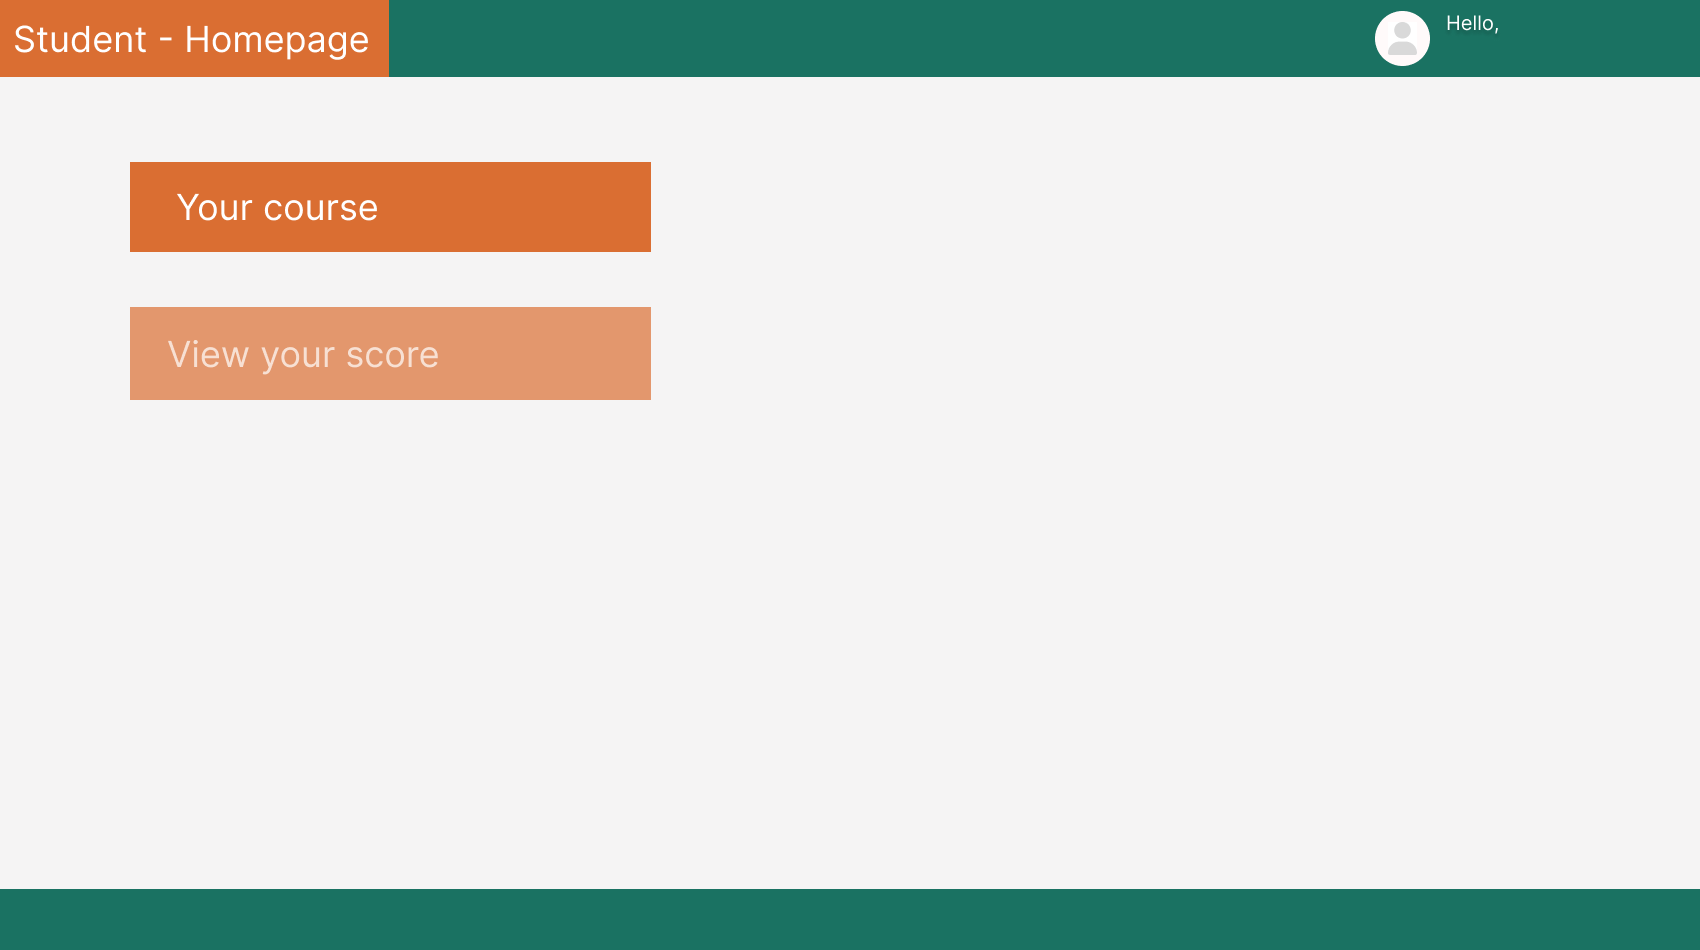
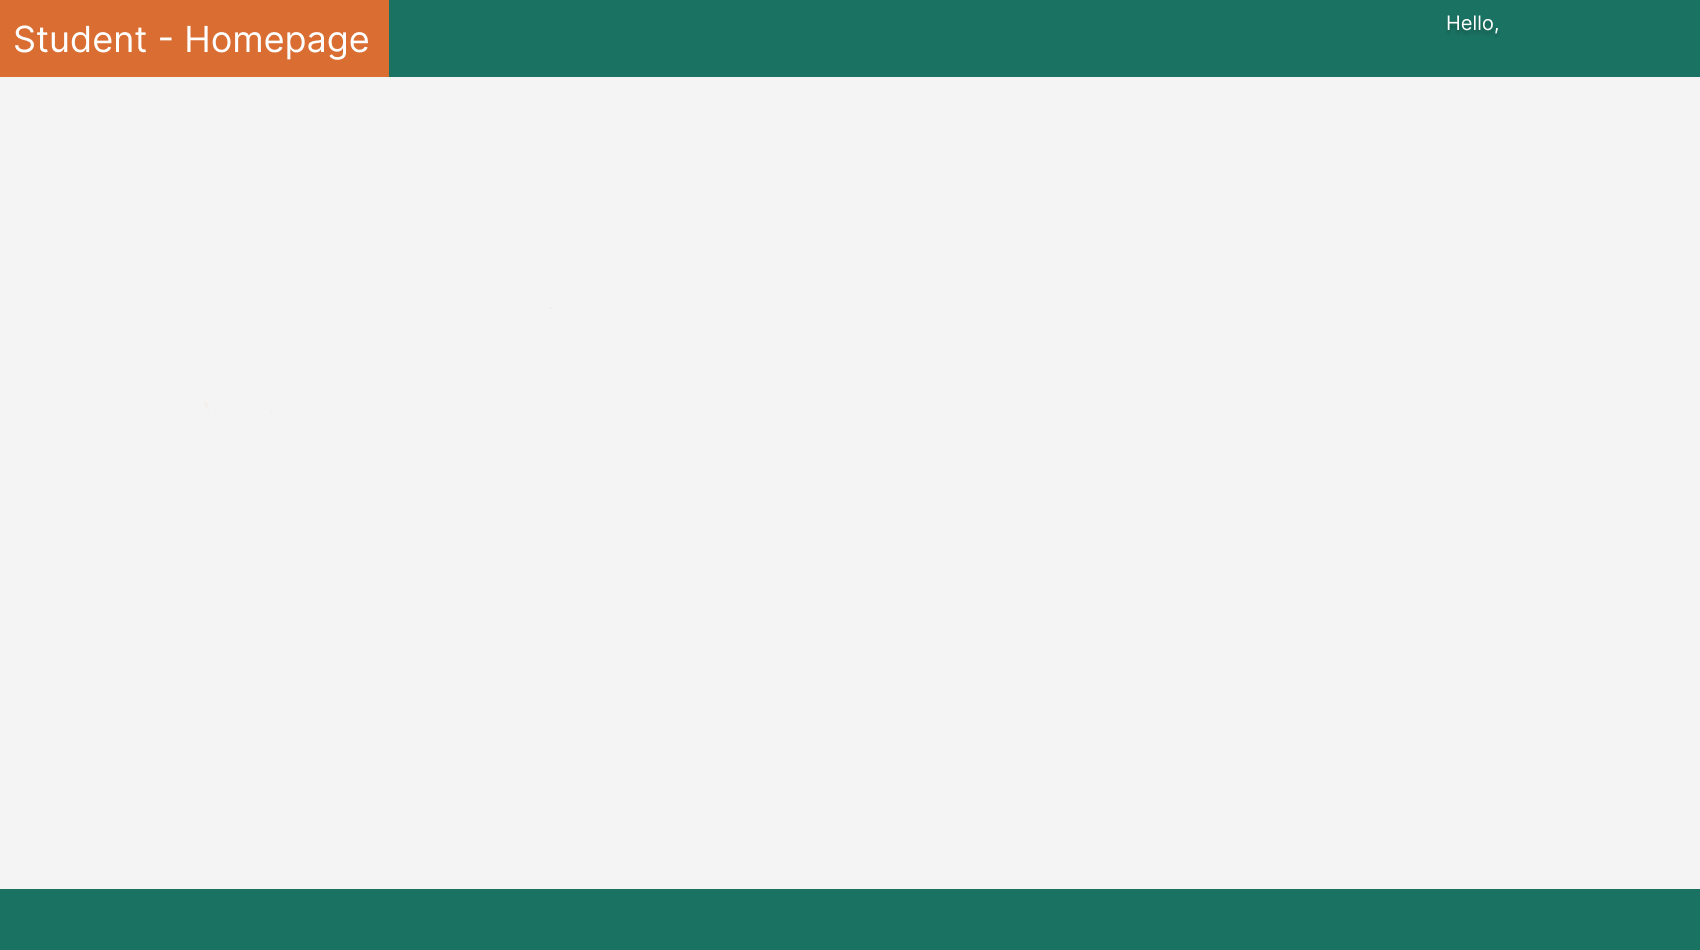
feat: implement 2 more windows

Changed region(s): [[0.0624, 0.3053, 0.4053, 0.4274], [0.0624, 0.1526, 0.4053, 0.2747], [0.8106, 0.0, 0.8418, 0.0916]]

diff --git a/SFML/Activity.cpp b/SFML/Activity.cpp
@@ -2,6 +2,7 @@
 // Global variables
 User user;
 
+// Finished
 void Activity::initLoginWindow(sf::RenderWindow &window)
 {    
     // Generate the main window
@@ -42,9 +43,10 @@ void Activity::initLoginWindow(sf::RenderWindow &window)
                     user.setPassword(username.getInput());
                     
                     user.setType("Student");
-                    type = 1;
+
                     
                     std::cout << checkLoginType(user.getUsername(), user.getPassword()) << std::endl;
+                    type = 1; // initHomePageStudentWindow
                     return; 
                 }
             }
@@ -66,6 +68,7 @@ void Activity::initLoginWindow(sf::RenderWindow &window)
     }
 }
 
+// Not yet finished
 void Activity::initHomePageStudentWindow(sf::RenderWindow &window)
 {
     
@@ -74,7 +77,9 @@ void Activity::initHomePageStudentWindow(sf::RenderWindow &window)
 
     Text name(1505, 10, user.getUsername(), font, sf::Color(255, 255, 255), 20);
     Text datetime(1446, 40, EF::getDateTime(), font, sf::Color(255, 255, 255), 20);
-   
+    Button yourCourse(130, 162, 521, 90, "Your course", font, sf::Color(218, 110, 50));
+    Button viewScore(130, 307, 521, 93, "View your score", font, sf::Color(218, 110, 50));
+    Circle userIcon(1403, 35, 28, "Assets/userIcon.png", sf::Color(255, 250, 250));
 
     if (!texture.loadFromFile("Assets/HomePageStudent.png"))
         std::cout << "Could not load the backrground image" << std::endl;
@@ -90,6 +95,16 @@ void Activity::initHomePageStudentWindow(sf::RenderWindow &window)
         while (window.pollEvent(event)) {
             if (event.type == sf::Event::Closed)
                 window.close();  // Close 
+            else if (event.type == sf::Event::MouseButtonPressed) {
+                sf::Vector2i mousePos = sf::Mouse::getPosition(window);
+
+                if (userIcon.isClicked(mousePos)) {
+                    std::cout << "User has clicked the information icon" << std::endl;
+                    type = 2; // initInformationWindow
+                    return;
+                }
+                
+            }
         }
 
         window.clear(sf::Color::White);
@@ -97,23 +112,126 @@ void Activity::initHomePageStudentWindow(sf::RenderWindow &window)
 
         name.draw(window);
         datetime.draw(window);
+        yourCourse.draw(window);
+        viewScore.draw(window);
+        userIcon.draw(window);
+
         window.display();
     }
 
 }
 
-void Activity::initInformationWindow(sf::RenderWindow& window)
+// Not yet finished
+void Activity::initInformationStudentWindow(sf::RenderWindow& window)
 {
-    //sf::RenderWindow window(sf::VideoMode(x, y), "Course management system", sf::Style::Close | sf::Style::Titlebar);
+    sf::Texture texture;
+    sf::Font font;
 
-    //while (window.isOpen()) {
-    //    sf::Event event;
-    //    while (window.pollEvent(event)) {
-    //        if (event.type == sf::Event::Closed)
-    //            window.close();  // Close 
-    //    }
+    Text name(1505, 10, user.getUsername(), font, sf::Color(255, 255, 255), 20);
+    Text datetime(1446, 40, EF::getDateTime(), font, sf::Color(255, 255, 255), 20);
+    Circle userIcon(1403, 40, 28, "Assets/userIcon.png", sf::Color(255, 250, 250));
+    Button goBack(458, 794, 245, 66, "Go back", font, sf::Color(218, 110, 50));
+    Button changePassword(833, 794, 372, 66, "Change password", font, sf::Color(218, 110, 50));
 
-    //    window.clear(sf::Color::White);
-    //    window.display();
-    //}
+    Text  fullName(672, 163, "Full name: " + user.fullname, font, sf::Color::Black, 36);
+    Text  id(672, 213, "Id: " + user.id, font, sf::Color::Black, 36);
+    Text  course(672, 258, "Course: " + user.courseName, font, sf::Color::Black, 36);
+    Text  classes(672, 300, "Class: " + user.courseName, font, sf::Color::Black, 36);
+
+
+    if (!texture.loadFromFile("Assets/InformationStudent.png"))
+        std::cout << "Could not load the backrground image" << std::endl;
+    if (!font.loadFromFile("TextFont/arial.ttf"))
+        std::cout << "Could not load the font" << std::endl;
+
+    std::cout << "Generate Student Information sucess" << std::endl;
+    sf::Sprite background(texture);
+
+
+    while (window.isOpen()) {
+        sf::Event event;
+        while (window.pollEvent(event)) {
+            if (event.type == sf::Event::Closed)
+                window.close();  // Close 
+            else if (event.type == sf::Event::MouseButtonPressed) {
+                sf::Vector2i mousePos = sf::Mouse::getPosition(window);
+
+                if (goBack.isClicked(mousePos)) {
+                    std::cout << "User has clicked the go back button" << std::endl;
+                    type = 1; // go back to initHomePageStudentWindow
+                    return;
+                }
+
+                if (changePassword.isClicked(mousePos)) {
+                    std::cout << "User has clicked the change password button" << std::endl;
+                    type = 3; // changePasswordStudent
+                    return;
+                }
+            }
+        }
+
+        window.clear(sf::Color::White);
+        window.draw(background);
+
+        name.draw(window);
+        datetime.draw(window);
+        userIcon.draw(window);
+        fullName.draw(window);
+        id.draw(window);
+        course.draw(window);
+        classes.draw(window);
+        goBack.draw(window);
+        changePassword.draw(window);
+
+        window.display();
+    }
+}
+
+// Not yet finished
+void Activity::changePasswordStudentWindow(sf::RenderWindow& window)
+{
+    sf::Texture texture;
+    sf::Font font;
+
+    Text name(1505, 10, user.fullname, font, sf::Color(255, 255, 255), 20);
+    Text datetime(1446, 40, EF::getDateTime(), font, sf::Color(255, 255, 255), 20);
+    Circle userIcon(1403, 40, 28, "Assets/userIcon.png", sf::Color(255, 250, 250));
+    Button goBack(458, 794, 245, 66, "Go back", font, sf::Color(218, 110, 50));
+
+    if (!texture.loadFromFile("Assets/changePasswordStudent.png"))
+        std::cout << "Could not load the backrground image" << std::endl;
+    if (!font.loadFromFile("TextFont/arial.ttf"))
+        std::cout << "Could not load the font" << std::endl;
+
+    std::cout << "Generate change password student sucess" << std::endl;
+    sf::Sprite background(texture);
+
+    while (window.isOpen()) {
+        sf::Event event;
+        while (window.pollEvent(event)) {
+            if (event.type == sf::Event::Closed)
+                window.close();  // Close 
+            else if (event.type == sf::Event::MouseButtonPressed) {
+                sf::Vector2i mousePos = sf::Mouse::getPosition(window);
+
+                if (goBack.isClicked(mousePos)) {
+                    std::cout << "User has clicked the go back button" << std::endl;
+                    type = 1; // go back to initHomePageStudentWindow
+                    return;
+                }
+
+            }
+        }
+
+        window.clear(sf::Color::White);
+        window.draw(background);
+
+        name.draw(window);
+        datetime.draw(window);
+        userIcon.draw(window);
+        goBack.draw(window);
+
+
+        window.display();
+    }
 }

diff --git a/SFML/Components.h b/SFML/Components.h
@@ -44,7 +44,7 @@ public:
                     if (!input.empty())
                         input.pop_back();
                 }
-                else if (event.text.unicode == '\r') { //Bao's commit No. 01 // Set unselected for ENTER input
+                else if (event.text.unicode == '\r') { // Set unselected for ENTER input
                     selected = false;
                 }
                 else if (event.text.unicode < 128) {
@@ -52,8 +52,10 @@ public:
                 }
             }
         }
-        if (!selected) text.setString(input); //Bao's commit No. 01 // Remove "_" at the end of unselected inputfield
-        else text.setString(input + "_"); //Bao's commit No. 01 // Set "_" at the end of selected inputfield
+        if (!selected) 
+            text.setString(input); // Remove "_" at the end of unselected inputfield
+        else 
+            text.setString(input + "_"); // Set "_" at the end of selected inputfield
         setSelected(selected);
     }
 
@@ -82,10 +84,14 @@ private:
     sf::Text text;
 
 public:
+    Button(){}
+
     Button(float x, float y, float width, float height, const std::string& buttonText, sf::Font& font, const sf::Color& fillColor) {
         shape.setPosition(sf::Vector2f(x, y));
         shape.setSize(sf::Vector2f(width, height));
         shape.setFillColor(fillColor);
+        shape.setOutlineThickness(2.f);
+        shape.setOutlineColor(sf::Color::Black);
 
         text.setFont(font);
         text.setString(buttonText);
@@ -93,10 +99,6 @@ public:
         text.setFillColor(sf::Color::White);
         text.setPosition(x + 10.f, y + 10.f);
 
-        // Calculate position to center the text within the button
-        sf::FloatRect textBounds = text.getLocalBounds();
-        text.setOrigin(textBounds.left + textBounds.width / 2.f, textBounds.top + textBounds.height / 2.f);
-        text.setPosition(sf::Vector2f(x + width / 2.f, y + height / 2.f));
     }
 
     void draw(sf::RenderWindow& window) {
@@ -106,6 +108,54 @@ public:
 
     bool isClicked(const sf::Vector2i& mousePos) {
         return shape.getGlobalBounds().contains(static_cast<sf::Vector2f>(mousePos));
+    }
+};
+
+class Circle {
+private:
+    sf::CircleShape circle;
+    sf::Texture texture;
+    sf::Sprite sprite;
+
+public:
+    Circle(float x, float y, float radius, const std::string& pathToImg, const sf::Color& fillColor) {
+        // Initialize circle
+        circle.setPosition(x, y);
+        circle.setRadius(radius);
+        circle.setFillColor(fillColor);
+        circle.setOrigin(radius, radius); // Set origin to center
+        circle.setOutlineThickness(1.f);
+        circle.setOutlineColor(sf::Color::Black);
+
+        // Load texture
+        if (!texture.loadFromFile(pathToImg)) {
+            std::cout << "Failed to load image";
+            throw std::runtime_error("Failed to load image");
+        }
+
+        // Initialize sprite with texture
+        sprite.setTexture(texture);
+        sf::Vector2u textureSize = texture.getSize();
+        sprite.setOrigin(textureSize.x / 2.f, textureSize.y / 2.f); // Set origin to center
+
+
+        sprite.setPosition(x, y);
+    }
+
+    bool isClicked(const sf::Vector2i& mousePos) {
+        sf::Vector2f circleCenter = circle.getPosition();
+        float circleRadius = circle.getRadius();
+
+        // Calculate distance between mouse position and circle center
+        float distance = std::sqrt(std::pow(mousePos.x - circleCenter.x, 2) + std::pow(mousePos.y - circleCenter.y, 2));
+
+        // If distance is less than or equal to circle radius, the mouse is inside the circle
+        return (distance <= circleRadius);
+    }
+
+    void draw(sf::RenderWindow& window) {
+        window.draw(circle);
+        window.draw(sprite);
     }
 };
 
@@ -152,6 +202,4 @@ public:
 };
 
 
-
-
-
+//InformationStudent.png

diff --git a/SFML/User.h b/SFML/User.h
@@ -2,7 +2,8 @@
 #include "Requirement.h"
 class User
 {
-private:
+//private:
+public:
 	std::string username;
 	std::string password;
 	std::string type; // Student and Staff
@@ -11,7 +12,7 @@ private:
 	std::string id;
 	std::string courseName;
 	std::string className;
-public:
+
 	User(){}
 
 	User(std::string username, std::string password, std::string url) {

diff --git a/SFML/Main.cpp b/SFML/Main.cpp
@@ -16,6 +16,13 @@ int main()
             activity.initHomePageStudentWindow(window);
             break;
 
+        case 2:
+            activity.initInformationStudentWindow(window);
+            break;
+
+        case 3:
+            activity.changePasswordStudentWindow(window);
+            break;
         default:
             break;
         }

diff --git a/SFML/Activity.h b/SFML/Activity.h
@@ -9,5 +9,7 @@ public:
 
 	void initHomePageStudentWindow(sf::RenderWindow& window);
 
-	void initInformationWindow(sf::RenderWindow& window);
+	void initInformationStudentWindow(sf::RenderWindow& window);
+
+	void changePasswordStudentWindow(sf::RenderWindow& window);
 };

diff --git a/SFML/Requirement.h b/SFML/Requirement.h
@@ -11,6 +11,7 @@
 #include <ctime>
 #include <iomanip>
 #include <sstream>
+#include <stdexcept>
 #include "Drawio.h"
 #include "Activity.h"
 #include "LinkList.h"
